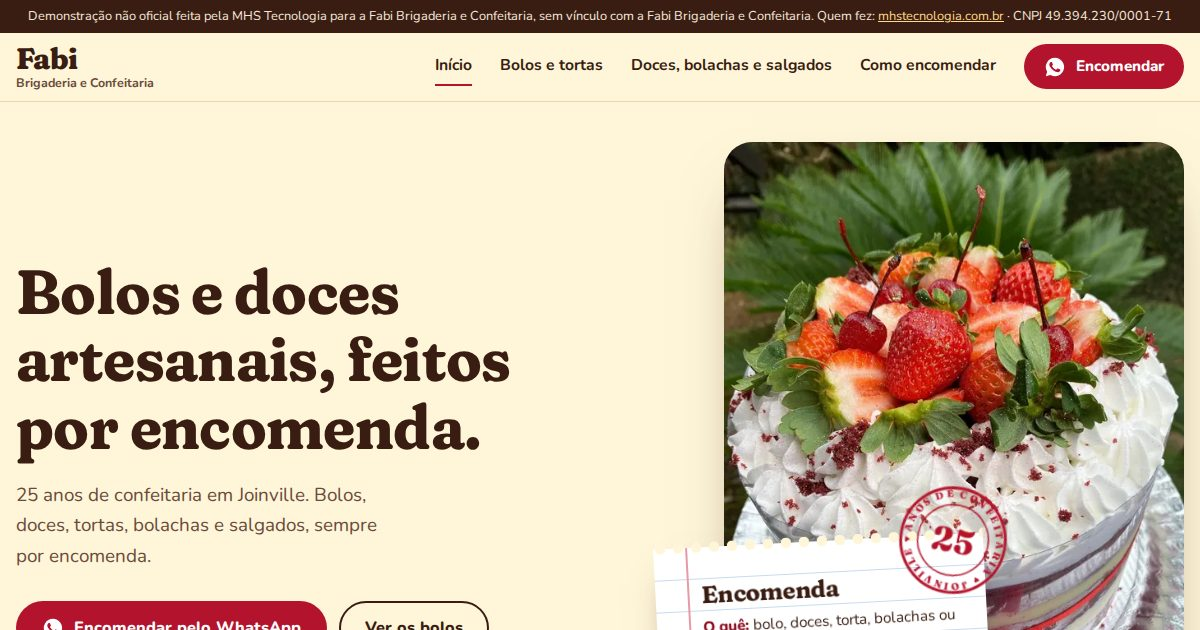
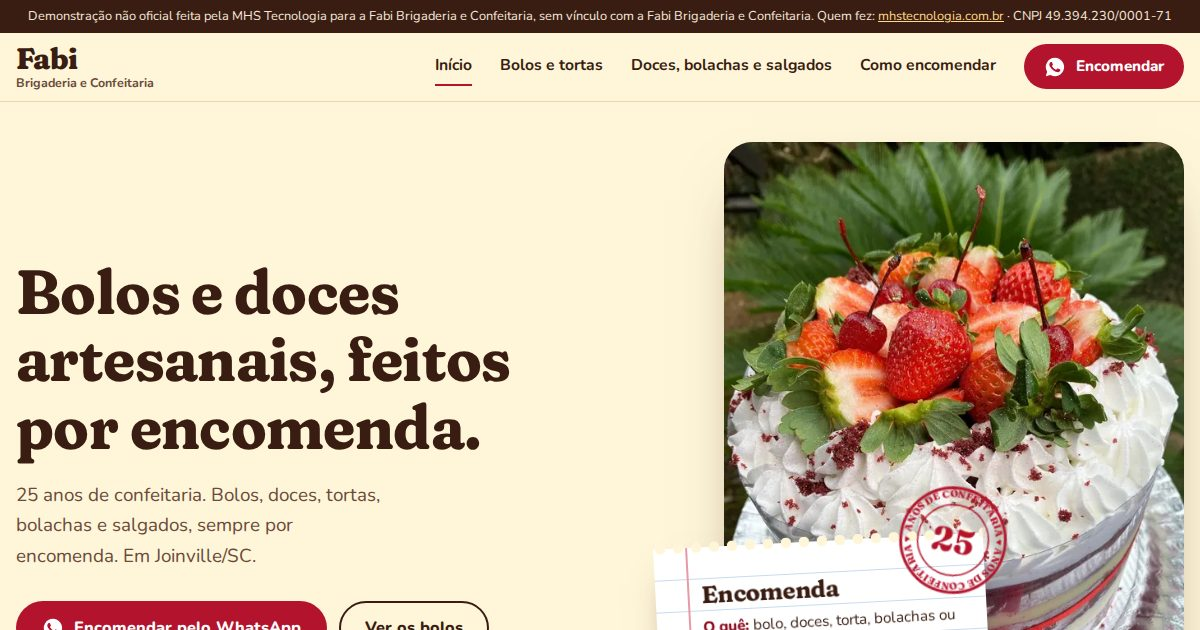
Previews: 101 ativos

diff --git a/fabi-brigaderia-joinville-sc/index.html b/fabi-brigaderia-joinville-sc/index.html
@@ -37,7 +37,7 @@
   <div class="caixa">
     <div>
       <h1>Bolos e doces artesanais, feitos por encomenda.</h1>
-      <p class="sub">25 anos de confeitaria em Joinville. Bolos, doces, tortas, bolachas e salgados, sempre por encomenda.</p>
+      <p class="sub">25 anos de confeitaria. Bolos, doces, tortas, bolachas e salgados, sempre por encomenda. Em Joinville/SC.</p>
       <div class="acoes" id="cta">
         <a class="btn btn-p" href="https://wa.me/5547988301979?text=Ol%C3%A1%2C%20Fabi!%20Vi%20o%20site%20e%20quero%20encomendar%20um%20bolo."><svg class="ico" viewBox="0 0 24 24" aria-hidden="true"><path fill="currentColor" d="M12 2a10 10 0 0 0-8.6 15.1L2 22l5-1.3A10 10 0 1 0 12 2Zm5.7 14.2c-.2.7-1.4 1.3-2 1.4-.5.1-1.2.1-1.9-.1-.4-.1-1-.3-1.7-.6-3-1.3-4.9-4.3-5.1-4.5-.1-.2-1.2-1.6-1.2-3 0-1.4.8-2.1 1-2.4.3-.3.6-.4.8-.4h.6c.2 0 .4 0 .6.5l.8 2c.1.2.1.4 0 .6l-.3.5-.4.5c-.1.1-.3.3-.1.6.2.3.8 1.3 1.7 2.1 1.2 1 2.1 1.4 2.4 1.5.3.1.5.1.7-.1l.9-1.1c.2-.3.4-.2.7-.1l1.9.9c.3.1.5.2.6.3.1.2.1.8-.1 1.4Z"/></svg>Encomendar pelo WhatsApp</a>
         <a class="btn btn-s" href="bolos.html">Ver os bolos</a>
@@ -56,7 +56,7 @@
   <circle cx="60" cy="60" r="56" fill="none" stroke="currentColor" stroke-width="3"/>
   <circle cx="60" cy="60" r="38" fill="none" stroke="currentColor" stroke-width="1.5"/>
   <path id="arco" d="M60 60 m-46 0 a46 46 0 1 1 92 0 a46 46 0 1 1 -92 0" fill="none"/>
-  <text font-size="10.5"><textPath href="#arco" textLength="284" lengthAdjust="spacing">ANOS DE CONFEITARIA ♥ JOINVILLE ♥</textPath></text>
+  <text font-size="10.5"><textPath href="#arco" textLength="284" lengthAdjust="spacing">ANOS DE CONFEITARIA ♥ ANOS DE CONFEITARIA ♥</textPath></text>
   <text x="60" y="73" font-size="36" text-anchor="middle">25</text>
 </svg>
         <h2>Encomenda</h2>
@@ -120,8 +120,8 @@
 <section class="secao" aria-labelledby="t-temas">
   <div class="caixa">
     <div class="cabeca">
-      <h2 id="t-temas">Festas que aparecem no perfil.</h2>
-      <p>Os destaques do Instagram da Fabi separam encomendas por ocasião. Tem uma data assim chegando? Pergunte.</p>
+      <h2 id="t-temas">Destaques do perfil.</h2>
+      <p>Alguns dos destaques do Instagram da Fabi. Tem uma data assim chegando? Pergunte.</p>
     </div>
     <ul class="temas">
       <li>Temáticos</li><li>Mesversário</li><li>Religiosos</li><li>Natal</li><li>Coquetéis</li><li>Tortas doces</li>
@@ -141,7 +141,6 @@
       <ul class="fones">
         <li><span>WhatsApp</span><a href="https://wa.me/5547988301979?text=Ol%C3%A1%2C%20Fabi!%20Vi%20o%20site%20e%20quero%20fazer%20uma%20encomenda.">(47) 98830-1979</a></li>
         <li><span>Telefone fixo</span><a href="tel:+554730431944">(47) 3043-1944</a></li>
-        <li><span>Outro número do perfil</span><a href="tel:+554797163670">(47) 9716-3670</a></li>
       </ul>
     </div>
   </div>

diff --git a/fabi-brigaderia-joinville-sc/bolos.html b/fabi-brigaderia-joinville-sc/bolos.html
@@ -65,7 +65,6 @@
       <ul class="fones">
         <li><span>WhatsApp</span><a href="https://wa.me/5547988301979?text=Ol%C3%A1%2C%20Fabi!%20Vi%20o%20site%20e%20quero%20fazer%20uma%20encomenda.">(47) 98830-1979</a></li>
         <li><span>Telefone fixo</span><a href="tel:+554730431944">(47) 3043-1944</a></li>
-        <li><span>Outro número do perfil</span><a href="tel:+554797163670">(47) 9716-3670</a></li>
       </ul>
     </div>
   </div>

diff --git a/fabi-brigaderia-joinville-sc/doces.html b/fabi-brigaderia-joinville-sc/doces.html
@@ -71,7 +71,6 @@
       <ul class="fones">
         <li><span>WhatsApp</span><a href="https://wa.me/5547988301979?text=Ol%C3%A1%2C%20Fabi!%20Vi%20o%20site%20e%20quero%20fazer%20uma%20encomenda.">(47) 98830-1979</a></li>
         <li><span>Telefone fixo</span><a href="tel:+554730431944">(47) 3043-1944</a></li>
-        <li><span>Outro número do perfil</span><a href="tel:+554797163670">(47) 9716-3670</a></li>
       </ul>
     </div>
   </div>

diff --git a/fabi-brigaderia-joinville-sc/encomendar.html b/fabi-brigaderia-joinville-sc/encomendar.html
@@ -51,7 +51,6 @@
       <ul class="fones">
         <li><span>WhatsApp</span><a href="https://wa.me/5547988301979?text=Ol%C3%A1%2C%20Fabi!%20Vi%20o%20site%20e%20quero%20fazer%20uma%20encomenda.">(47) 98830-1979</a></li>
         <li><span>Telefone fixo</span><a href="tel:+554730431944">(47) 3043-1944</a></li>
-        <li><span>Outro número do perfil</span><a href="tel:+554797163670">(47) 9716-3670</a></li>
       </ul>
     </div>
   </div>

diff --git a/fabi-brigaderia-joinville-sc/estilo.css b/fabi-brigaderia-joinville-sc/estilo.css
@@ -172,6 +172,7 @@ figcaption { font-size: .95rem; color: var(--texto-suave); margin-top: 10px; }
 @media (min-width: 900px) { .fixo { display: none; } }
 
 @media (max-width: 899px) {
+  .aviso { font-size: .68rem; line-height: 1.35; padding: 5px 10px; }
   .nav { gap: 12px; min-height: 60px; }
   .nav > a.lk, .nav > .nav-wa { display: none; }
   .menu-btn { display: inline-flex; }
